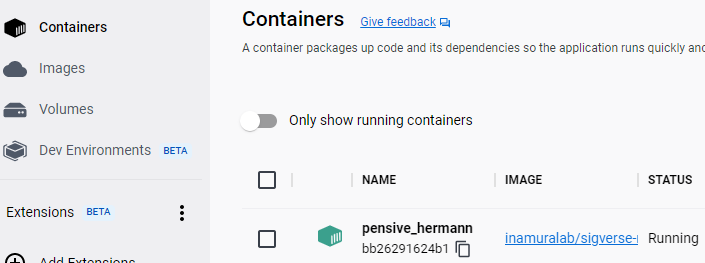
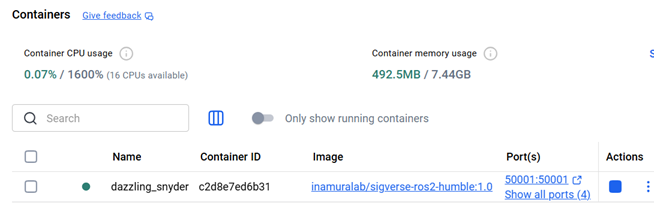
Update readme

diff --git a/README.md b/README.md
@@ -1,28 +1,72 @@
 # docker-ros
 
 SIGVerse用のVNC接続可能なUbuntuデスクトップDockerコンテナを使用するためのリポジトリです。  
-次のイメージをベースにしています。  
+次のイメージを使用します。  
 https://github.com/Tiryoh/docker-ros2-desktop-vnc
 
 Windowsでイメージのビルドを行う例を以降に示します。
 
-## DockerfileからDockerイメージを作成する
+## Dockerイメージを作成する
 
 **この作業はSIGVerse管理者が行う作業であり、ユーザが実行する必要はありません。**
 
+Dockerfileは作成していません。Dockerビルドでubuntuユーザを使用して環境構築するのが難しかったためです。
+
 1. Docker Desktopをインストールします。  
 https://www.docker.com/products/docker-desktop/
+1. Docker Desktopを起動して正常に起動することを確認してください。
 1. Windows PowerShell を起動します。（以降のコマンドはWindows PowerShell で実行します）
 1. バージョン確認コマンドを実行してDockerコマンドが動くことを確認してください。  
-`> docker --version`
-1. docker loginコマンドで稲邑研のDocker Hubアカウントにログインします。（ID/Passwordは別途確認してください）  
-`> docker login`
-1. 本リポジトリをダウンロードし、ローカルに解凍します。
-1. 本リポジトリのDockerfileが存在するディレクトリに移動します。
-1. Dockerイメージをビルドします。  
-`> docker build . -t inamuralab/sigverse-ros2-humble`
-1. DockerイメージをDocker Hubに送信します。  
-`> docker push inamuralab/sigverse-ros2-humble`
+    ```sh
+    docker --version
+    ```
+1. docker loginコマンドで稲邑研のDocker Hubアカウントにログインします。（ID=inamuralab/Passは別途確認してください）  
+    ```sh
+    docker login
+    ```
+1. ベースとなるDockerイメージをダウンロードし、Dockerコンテナを作成・起動します。  
+    ```sh
+    docker run -p 6080:80 --security-opt seccomp=unconfined --shm-size=512m ghcr.io/tiryoh/ros2-desktop-vnc:humble
+    ```
+1. 起動完了するまで待ちます。以下のような状態であれば起動完了しています。
+![launch-base-image](images/launch-base-image.png "Launch Base Image")  
+1. Docker DesktopのContainersにコンテナが表示されていることを確認します。コンテナ名はランダムに決定されます。  
+![base-image-container](images/base-image-container.png "Base Image Container")  
+1. Webブラウザを起動し、以下にアクセスします。  
+http://127.0.0.1:6080/  
+1. 接続ボタンをクリックします。  
+Ubuntuデスクトップ画面が表示されます。  
+画面左側にはVNCツールがあります。  
+1. デスクトップのTerminatorを起動します。
+1. SIGVerseをインストールします。 
+    ```sh
+    wget https://raw.githubusercontent.com/SIGVerse/docker-ros/main/humble/sigverse_setup.sh
+    chmod +x sigverse_setup.sh
+    ./sigverse_setup.sh
+    ```
+1. 不要ファイルを削除します。
+    ```sh
+    rm sigverse_setup.sh
+    sudo rm -rf /var/lib/apt/lists/*
+    ```
+1. sigverse_commands.txtをダウンロードします。このファイルはデスクトップに配備してください。
+    ```sh
+    wget https://raw.githubusercontent.com/SIGVerse/docker-ros/refs/heads/main/humble/sigverse_commands.txt
+    ```
+1. HSR用のROS2ノードが起動することを確認します。
+    ```sh
+    source ~/.bashrc
+    ros2 launch sigverse_hsr_teleop_key teleop_key_launch.xml
+    ```
+1. 画面左側のVNCツールでVNC接続を切断します。
+1. Docker Desktopのコンテナ一覧画面でベースイメージのコンテナを停止します。
+1. DockerイメージをDocker Hubに送信します。Windows PowerShellで以下コマンドを実行してください。   
+    ```sh 
+    docker commit <Container ID> sigverse-ros2-humble:1.0
+    docker tag sigverse-ros2-humble:1.0 inamuralab/sigverse-ros2-humble:1.0
+    docker login
+    docker push inamuralab/sigverse-ros2-humble:1.0
+    ```
 
 ## DockerイメージからDockerコンテナを起動する（初回起動）
 
@@ -32,64 +76,48 @@ https://www.docker.com/products/docker-desktop/
 1. Windows PowerShell を起動します。（以降のコマンドはWindows PowerShell で実行します）
 1. Dockerイメージをダウンロードし、Dockerコンテナを作成・起動します。  
 解像度オプション（-e RESOLUTION=1920x1080）を付ければ解像度を変更可能です。  
-`> docker run -p 6080:80 -p 5900:5900 -p 9090:9090 -p 50001:50001 inamuralab/sigverse-ros2-humble`
+    ```sh
+    docker run -p 6080:80 -p 5900:5900 -p 9090:9090 -p 50001:50001 inamuralab/sigverse-ros2-humble:1.0
+    ```
 1. 起動完了するまで待ちます。以下のような状態であれば起動完了しています。
-![create-container](images/create-container.png "Create Container")  
-Docker DesktopのImagesには以下のようなImageが追加されています。  
+![launch-image](images/launch-base-image.png "Launch Image")  
+1. Docker DesktopのImagesにImageが追加されていることを確認します。  
 ![docker-desktop-images](images/docker-desktop-images.png "Docker Desktop Images")  
-Docker DesktopのContainersには以下のようなコンテナが起動します。コンテナ名は適当に決定されます。  
+1. Docker DesktopのContainersにコンテナが表示されていることを確認します。コンテナ名はランダムに決定されます。  
 ![docker-desktop-containers](images/docker-desktop-containers.png "Docker Desktop Containers")  
-1. ブラウザを起動し、以下にアクセスします。  
-http://127.0.0.1:6080/  
-またTigerVNCなどのVNCクライアントを使用してアクセスすることも可能です。その場合ポート番号は5900です。
-1. 以下のようなLXDEのUbuntuデスクトップ画面が表示されます。  
-画面左側にはVNCツールがありVNCに関わる機能が使用可能です。  
-![vnc-desktop](images/vnc-desktop.png "VNC Window")  
-
-## Dockerコンテナを使用する
-
-+ デスクトップに sigverse_commands.txt が置いてあり、参考となるROSコマンドが書かれています。
-+ 画面左側のVNCツールで Clipboard が使用可能です。
-+ 画面左側のVNCツールの設定で、Scaling Modeを"Local Scaling"にするとブラウザサイズに合わせて画面が伸縮します。
-
-## Dockerコンテナを停止する
-1. 画面左側のVNCツールで Disconnect をクリックして切断します。
-1. Docker Desktopのコンテナ一覧から当該コンテナを停止します。
 
 ## Dockerコンテナの起動（２回目以降）
 
 既にコンテナが存在しているのでDocker Desktopのコンテナ一覧から起動できます。  
 Windows PowerShell は使用しません。
 
+## Dockerコンテナを使用する
+
+1. Webブラウザを起動し、以下にアクセスします。  
+http://127.0.0.1:6080/  
+1. 接続ボタンをクリックします。  
+Ubuntuデスクトップ画面が表示されます。  
+画面左側にはVNCツールがあります。  
+デスクトップには、コマンド例が書かれたsigverse_commands.txtが配置されています。  
+![vnc-desktop](images/vnc-desktop.png "VNC Desktop") 
+1. Unityで設定するROS側のIPアドレスは127.0.0.1です。
+![unity-settings](images/unity-settings.png "Unity Settings") 
+
+## Dockerコンテナを停止する
+1. 画面左側のVNCツールでVNC接続を切断します。
+1. Docker Desktopのコンテナ一覧から当該コンテナを停止します。
+
 ## 補足
-
-### GPUを使用する方法
-
-SIGVerseにはYOLOを使用した物体認識のチュートリアルがありますが、DockerでGPUを使用できることも確認しています。
-
-##### 前提条件
-GPUを使用するには条件があると思われます。当方で確認できた一例を示します。以下が最小構成という訳ではありません（2022年12月現在）
-+ Windows 10 Pro 22H2
-+ Docker Desktop 4.15.0
-+ GeForce RTX 3070 laptop
-+ GeForce Game Ready Driver 527.56
-+ CUDA Toolkit 12.0.0_525.60.13
-
-##### 手順（一例）
-1. 解像度とgpusオプションを付けてコンテナを作成します。  
-docker run --gpus all -p 6080:80 -p 5900:5900 -p 9090:9090 -p 50001:50001 -e RESOLUTION=1920x1080 inamuralab/sigverse-ros-noetic
-1. Dockerコンテナ内で Ubuntu20.04用の CUDA Toolkit をインストールします。
-1. darknet_ros/darknet/Makefile を修正して、GPUとCUDNNのフラグを立てます。（GPU=1、CUDNN=1）
-1. darknet_ros/darknet_ros/CMakeLists.txt を修正して、compute_30 と compute_35 の行をコメントアウトします。
-1. catkin_makeします。
 
 ### Dockerイメージのファイル保存
 
 Dockerイメージをファイル保存するには、Windowsの場合、PowerShellでコマンドを実行します。
 
-##### ファイル保存
-
-`> docker save inamuralab/sigverse-ros-noetic:latest -o docker-image-sigverse-noetic.tar`
-
-##### ファイル読み込み
-`> docker load -i docker-image-sigverse-noetic.tar`
+ファイル保存  
+```sh
+docker save inamuralab/sigverse-ros-humble:1.0 -o docker-image-sigverse-humble.tar
+```
+ファイル読込  
+```sh
+docker load -i docker-image-sigverse-humble.tar
+```
